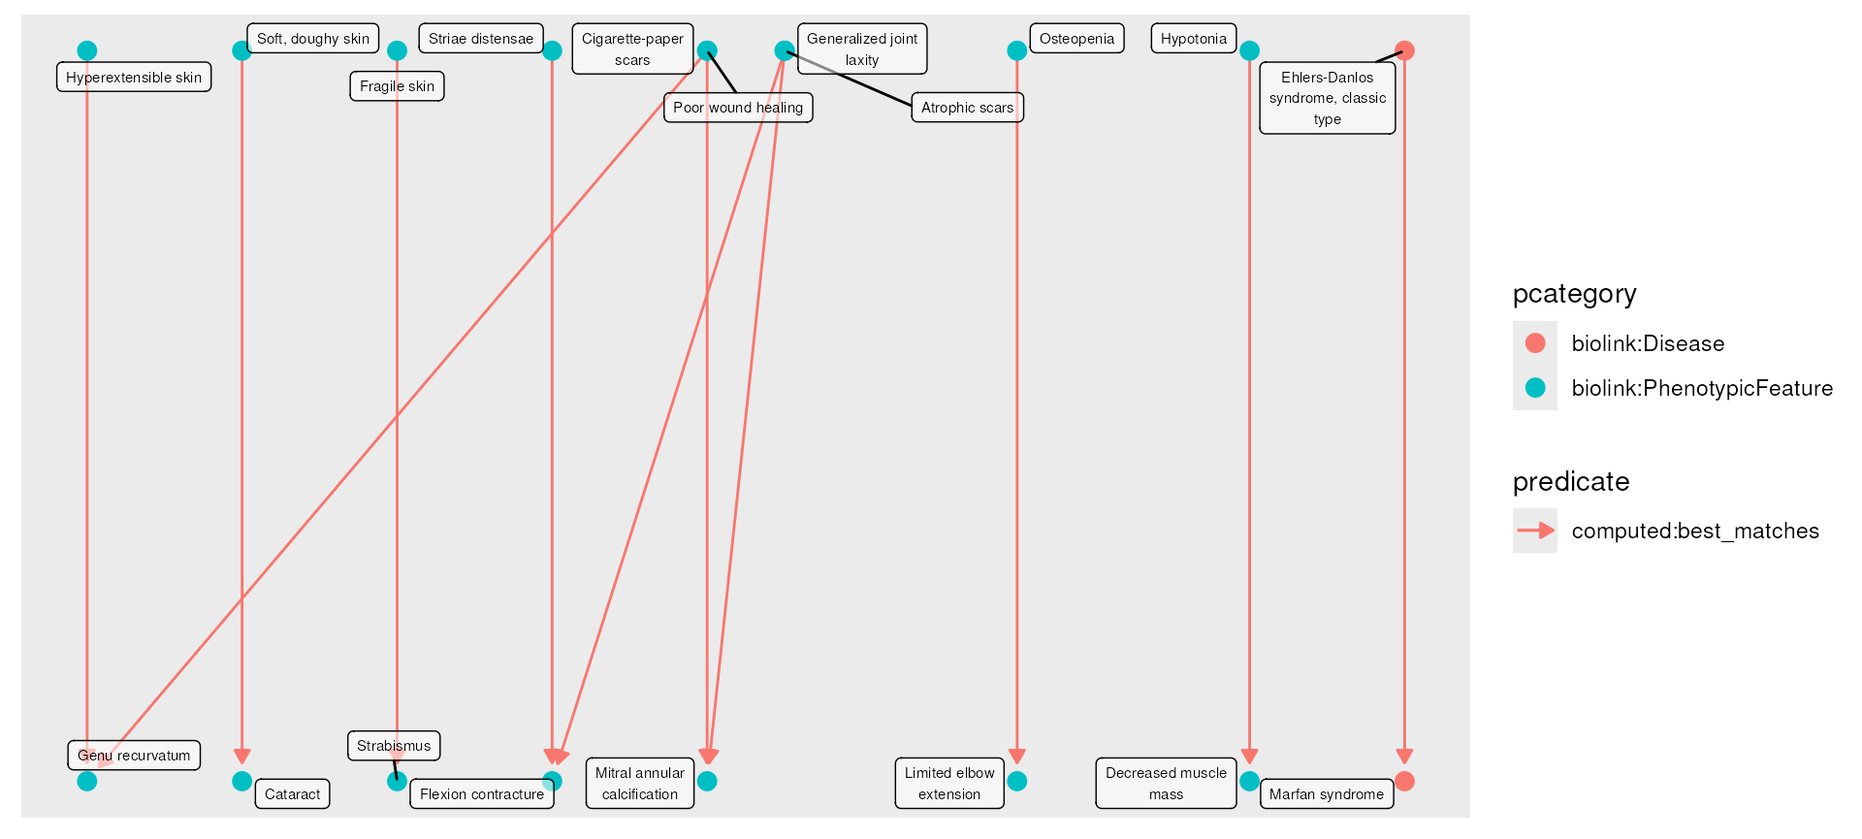
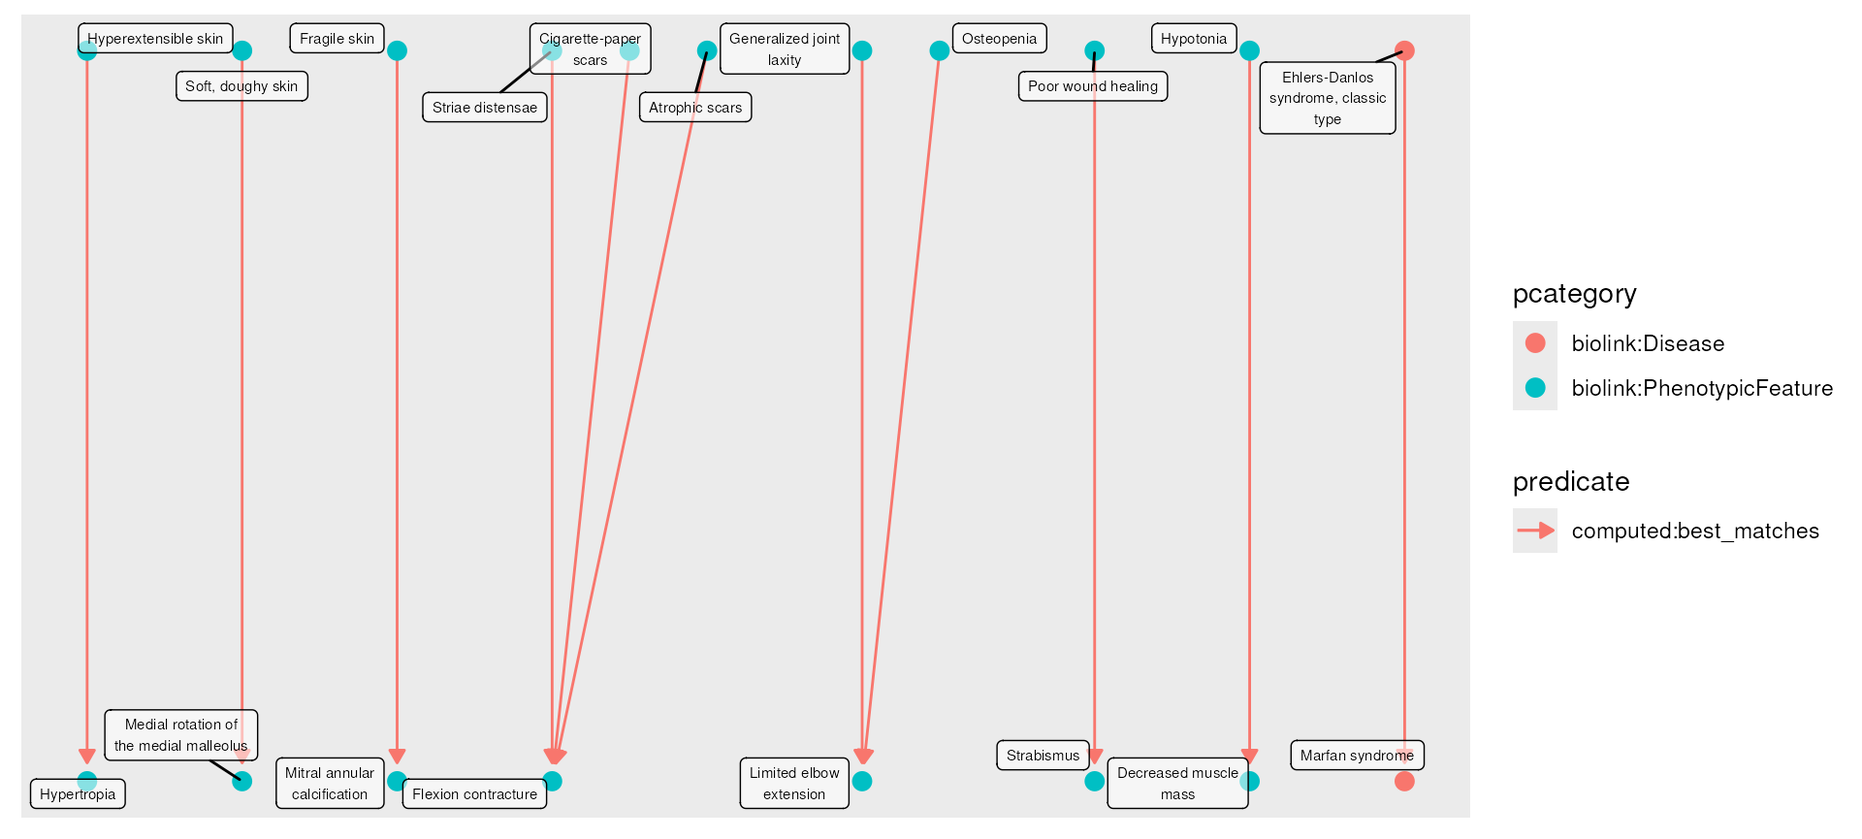
Deploying to gh-pages from @ monarch-initiative/monarchr@3656ffecc8a6514be7b05351ad8e70e9db87f349 🚀

diff --git a/reference/monarch_semsim.html b/reference/monarch_semsim.html
@@ -61,7 +61,7 @@ https://monarchinitiative.org/explore#phenotype-explorer."><!-- mathjax --><scri
   <div class="col-md-9 contents">
     <div class="page-header">
     <h1>Semantic similarity mapping between two graphs</h1>
-    <small class="dont-index">Source: <a href="https://github.com/monarch-initiative/monarchr/blob/checks_pass/R/monarch_semsim.R" class="external-link"><code>R/monarch_semsim.R</code></a></small>
+    <small class="dont-index">Source: <a href="https://github.com/monarch-initiative/monarchr/blob/main/R/monarch_semsim.R" class="external-link"><code>R/monarch_semsim.R</code></a></small>
     <div class="hidden name"><code>monarch_semsim.Rd</code></div>
     </div>
 
@@ -148,11 +148,11 @@ the best matches from the second graph to the first graph.</p>
 <span class="r-msg co"><span class="r-pr">#&gt;</span> Joining with `by = join_by(id, pcategory, name, description, synonym, category,</span>
 <span class="r-msg co"><span class="r-pr">#&gt;</span> iri, xref, namespace, provided_by)`</span>
 <span class="r-in"><span><span class="fu"><a href="https://rdrr.io/r/base/print.html" class="external-link">print</a></span><span class="op">(</span><span class="va">sim</span><span class="op">)</span></span></span>
-<span class="r-out co"><span class="r-pr">#&gt;</span> <span style="color: #949494;"># A tbl_graph: 133 nodes and 106 edges</span></span>
+<span class="r-out co"><span class="r-pr">#&gt;</span> <span style="color: #949494;"># A tbl_graph: 134 nodes and 106 edges</span></span>
 <span class="r-out co"><span class="r-pr">#&gt;</span> <span style="color: #949494;">#</span></span>
-<span class="r-out co"><span class="r-pr">#&gt;</span> <span style="color: #949494;"># A directed multigraph with 39 components</span></span>
+<span class="r-out co"><span class="r-pr">#&gt;</span> <span style="color: #949494;"># A directed multigraph with 40 components</span></span>
 <span class="r-out co"><span class="r-pr">#&gt;</span> <span style="color: #949494;">#</span></span>
-<span class="r-out co"><span class="r-pr">#&gt;</span> <span style="color: #949494;"># Node Data: 133 × 10 (active)</span></span>
+<span class="r-out co"><span class="r-pr">#&gt;</span> <span style="color: #949494;"># Node Data: 134 × 10 (active)</span></span>
 <span class="r-out co"><span class="r-pr">#&gt;</span>    id         pcategory name  description synonym category iri   xref  namespace</span>
 <span class="r-out co"><span class="r-pr">#&gt;</span>    <span style="color: #949494; font-style: italic;">&lt;chr&gt;</span>      <span style="color: #949494; font-style: italic;">&lt;chr&gt;</span>     <span style="color: #949494; font-style: italic;">&lt;chr&gt;</span> <span style="color: #949494; font-style: italic;">&lt;chr&gt;</span>       <span style="color: #949494; font-style: italic;">&lt;named&gt;</span> <span style="color: #949494; font-style: italic;">&lt;list&gt;</span>   <span style="color: #949494; font-style: italic;">&lt;chr&gt;</span> <span style="color: #949494; font-style: italic;">&lt;nam&gt;</span> <span style="color: #949494; font-style: italic;">&lt;chr&gt;</span>    </span>
 <span class="r-out co"><span class="r-pr">#&gt;</span> <span style="color: #BCBCBC;"> 1</span> MONDO:000… biolink:… Marf… A disorder… <span style="color: #949494;">&lt;chr&gt;</span>   <span style="color: #949494;">&lt;chr&gt;</span>    http… <span style="color: #949494;">&lt;chr&gt;</span> MONDO    </span>
@@ -165,15 +165,15 @@ the best matches from the second graph to the first graph.</p>
 <span class="r-out co"><span class="r-pr">#&gt;</span> <span style="color: #BCBCBC;"> 8</span> HP:0025586 biolink:… Hype… A type of … <span style="color: #949494;">&lt;lgl&gt;</span>   <span style="color: #949494;">&lt;chr&gt;</span>    http… <span style="color: #949494;">&lt;lgl&gt;</span> HP       </span>
 <span class="r-out co"><span class="r-pr">#&gt;</span> <span style="color: #BCBCBC;"> 9</span> HP:0000518 biolink:… Cata… A cataract… <span style="color: #949494;">&lt;chr&gt;</span>   <span style="color: #949494;">&lt;chr&gt;</span>    http… <span style="color: #949494;">&lt;chr&gt;</span> HP       </span>
 <span class="r-out co"><span class="r-pr">#&gt;</span> <span style="color: #BCBCBC;">10</span> HP:0008132 biolink:… Medi… <span style="color: #BB0000;">NA</span>          <span style="color: #949494;">&lt;lgl&gt;</span>   <span style="color: #949494;">&lt;chr&gt;</span>    http… <span style="color: #949494;">&lt;chr&gt;</span> HP       </span>
-<span class="r-out co"><span class="r-pr">#&gt;</span> <span style="color: #949494;"># ℹ 123 more rows</span></span>
+<span class="r-out co"><span class="r-pr">#&gt;</span> <span style="color: #949494;"># ℹ 124 more rows</span></span>
 <span class="r-out co"><span class="r-pr">#&gt;</span> <span style="color: #949494;"># ℹ 1 more variable: provided_by &lt;named list&gt;</span></span>
 <span class="r-out co"><span class="r-pr">#&gt;</span> <span style="color: #949494;">#</span></span>
 <span class="r-out co"><span class="r-pr">#&gt;</span> <span style="color: #949494;"># Edge Data: 106 × 8</span></span>
 <span class="r-out co"><span class="r-pr">#&gt;</span>    from    to subject    predicate             object   metric score ancestor_id</span>
 <span class="r-out co"><span class="r-pr">#&gt;</span>   <span style="color: #949494; font-style: italic;">&lt;int&gt;</span> <span style="color: #949494; font-style: italic;">&lt;int&gt;</span> <span style="color: #949494; font-style: italic;">&lt;chr&gt;</span>      <span style="color: #949494; font-style: italic;">&lt;chr&gt;</span>                 <span style="color: #949494; font-style: italic;">&lt;chr&gt;</span>    <span style="color: #949494; font-style: italic;">&lt;chr&gt;</span>  <span style="color: #949494; font-style: italic;">&lt;dbl&gt;</span> <span style="color: #949494; font-style: italic;">&lt;chr&gt;</span>      </span>
-<span class="r-out co"><span class="r-pr">#&gt;</span> <span style="color: #BCBCBC;">1</span>   106    46 HP:0000006 computed:best_matches HP:0001… ances…  4.10 HP:0000001 </span>
+<span class="r-out co"><span class="r-pr">#&gt;</span> <span style="color: #BCBCBC;">1</span>   106   113 HP:0000006 computed:best_matches HP:0000… ances…  4.10 HP:0000001 </span>
 <span class="r-out co"><span class="r-pr">#&gt;</span> <span style="color: #BCBCBC;">2</span>    83    83 HP:0000023 computed:best_matches HP:0000… ances… 18.2  HP:0000023 </span>
-<span class="r-out co"><span class="r-pr">#&gt;</span> <span style="color: #BCBCBC;">3</span>    23   113 HP:0000098 computed:best_matches HP:0000… ances…  5.96 UPHENO:006…</span>
+<span class="r-out co"><span class="r-pr">#&gt;</span> <span style="color: #BCBCBC;">3</span>    23   114 HP:0000098 computed:best_matches HP:0000… ances…  5.96 UPHENO:006…</span>
 <span class="r-out co"><span class="r-pr">#&gt;</span> <span style="color: #949494;"># ℹ 103 more rows</span></span>
 <span class="r-in"><span></span></span>
 <span class="r-in"><span><span class="co"># also inclue the unmatched targets</span></span></span>
@@ -204,7 +204,7 @@ the best matches from the second graph to the first graph.</p>
 <span class="r-out co"><span class="r-pr">#&gt;</span> <span style="color: #949494;"># Edge Data: 106 × 8</span></span>
 <span class="r-out co"><span class="r-pr">#&gt;</span>    from    to subject    predicate             object   metric score ancestor_id</span>
 <span class="r-out co"><span class="r-pr">#&gt;</span>   <span style="color: #949494; font-style: italic;">&lt;int&gt;</span> <span style="color: #949494; font-style: italic;">&lt;int&gt;</span> <span style="color: #949494; font-style: italic;">&lt;chr&gt;</span>      <span style="color: #949494; font-style: italic;">&lt;chr&gt;</span>                 <span style="color: #949494; font-style: italic;">&lt;chr&gt;</span>    <span style="color: #949494; font-style: italic;">&lt;chr&gt;</span>  <span style="color: #949494; font-style: italic;">&lt;dbl&gt;</span> <span style="color: #949494; font-style: italic;">&lt;chr&gt;</span>      </span>
-<span class="r-out co"><span class="r-pr">#&gt;</span> <span style="color: #BCBCBC;">1</span>   106   123 HP:0000006 computed:best_matches HP:0000… ances…  4.10 HP:0000001 </span>
+<span class="r-out co"><span class="r-pr">#&gt;</span> <span style="color: #BCBCBC;">1</span>   106   144 HP:0000006 computed:best_matches HP:0003… ances…  4.10 HP:0000001 </span>
 <span class="r-out co"><span class="r-pr">#&gt;</span> <span style="color: #BCBCBC;">2</span>    83    83 HP:0000023 computed:best_matches HP:0000… ances… 18.2  HP:0000023 </span>
 <span class="r-out co"><span class="r-pr">#&gt;</span> <span style="color: #BCBCBC;">3</span>    23   125 HP:0000098 computed:best_matches HP:0000… ances…  5.96 UPHENO:006…</span>
 <span class="r-out co"><span class="r-pr">#&gt;</span> <span style="color: #949494;"># ℹ 103 more rows</span></span>
@@ -237,7 +237,7 @@ the best matches from the second graph to the first graph.</p>
 <span class="r-out co"><span class="r-pr">#&gt;</span> <span style="color: #949494;"># Edge Data: 173 × 8</span></span>
 <span class="r-out co"><span class="r-pr">#&gt;</span>    from    to subject    predicate             object   metric score ancestor_id</span>
 <span class="r-out co"><span class="r-pr">#&gt;</span>   <span style="color: #949494; font-style: italic;">&lt;int&gt;</span> <span style="color: #949494; font-style: italic;">&lt;int&gt;</span> <span style="color: #949494; font-style: italic;">&lt;chr&gt;</span>      <span style="color: #949494; font-style: italic;">&lt;chr&gt;</span>                 <span style="color: #949494; font-style: italic;">&lt;chr&gt;</span>    <span style="color: #949494; font-style: italic;">&lt;chr&gt;</span>  <span style="color: #949494; font-style: italic;">&lt;dbl&gt;</span> <span style="color: #949494; font-style: italic;">&lt;chr&gt;</span>      </span>
-<span class="r-out co"><span class="r-pr">#&gt;</span> <span style="color: #BCBCBC;">1</span>   106   141 HP:0000006 computed:best_matches HP:0002… ances…  4.10 HP:0000001 </span>
+<span class="r-out co"><span class="r-pr">#&gt;</span> <span style="color: #BCBCBC;">1</span>   106   145 HP:0000006 computed:best_matches HP:0003… ances…  4.10 HP:0000001 </span>
 <span class="r-out co"><span class="r-pr">#&gt;</span> <span style="color: #BCBCBC;">2</span>    83    83 HP:0000023 computed:best_matches HP:0000… ances… 18.2  HP:0000023 </span>
 <span class="r-out co"><span class="r-pr">#&gt;</span> <span style="color: #BCBCBC;">3</span>    23   125 HP:0000098 computed:best_matches HP:0000… ances…  5.96 UPHENO:006…</span>
 <span class="r-out co"><span class="r-pr">#&gt;</span> <span style="color: #949494;"># ℹ 170 more rows</span></span>

diff --git a/articles/monarchr.html b/articles/monarchr.html
@@ -93,7 +93,7 @@ O’Neil</h4>
 <i>Aug-16-2024</i>
 </h4>
       
-      <small class="dont-index">Source: <a href="https://github.com/monarch-initiative/monarchr/blob/checks_pass/vignettes/monarchr.Rmd" class="external-link"><code>vignettes/monarchr.Rmd</code></a></small>
+      <small class="dont-index">Source: <a href="https://github.com/monarch-initiative/monarchr/blob/main/vignettes/monarchr.Rmd" class="external-link"><code>vignettes/monarchr.Rmd</code></a></small>
       <div class="hidden name"><code>monarchr.Rmd</code></div>
 
     </div>
@@ -6481,21 +6481,20 @@ c(“biolink:BiologicalEntity”, “biolink:DiseaseOrPhenotypicFeature”,
 </tr>
 <tr>
 <td style="text-align:left;">
-“HP:0000518”
+“HP:0025586”
 </td>
 <td style="text-align:left;">
 “biolink:PhenotypicFeature”
 </td>
 <td style="text-align:left;">
-“Cataract”
+“Hypertropia”
 </td>
 <td style="text-align:left;min-width: 300px; ">
-“A cataract is an opacity or clouding that develops in the crystalline
-lens of the eye or in its capsule.”
+“A type of strabismus characterized by permanent upward deviation of the
+visual axis of one eye.”
 </td>
 <td style="text-align:left;min-width: 300px; ">
-c(“Cataracts”, “Clouding of the lens of the eye”, “Cloudy lens”, “Lens
-opacities”, “Lens opacity”)
+NA
 </td>
 <td style="text-align:left;">
 c(“biolink:BiologicalEntity”, “biolink:DiseaseOrPhenotypicFeature”,
@@ -6503,12 +6502,10 @@ c(“biolink:BiologicalEntity”, “biolink:DiseaseOrPhenotypicFeature”,
 “biolink:ThingWithTaxon”)
 </td>
 <td style="text-align:left;">
-“<a href="http://purl.obolibrary.org/obo/HP_0000518" class="external-link uri">http://purl.obolibrary.org/obo/HP_0000518</a>”
+“<a href="http://purl.obolibrary.org/obo/HP_0025586" class="external-link uri">http://purl.obolibrary.org/obo/HP_0025586</a>”
 </td>
 <td style="text-align:left;">
-c(“Fyler:4865”, “MSH:D002386”, “SNOMEDCT_US:128306009”,
-“SNOMEDCT_US:193570009”, “SNOMEDCT_US:247053007”, “UMLS:C0086543”,
-“UMLS:C1510497”)
+NA
 </td>
 <td style="text-align:left;">
 “HP”
@@ -6519,20 +6516,19 @@ c(“Fyler:4865”, “MSH:D002386”, “SNOMEDCT_US:128306009”,
 </tr>
 <tr>
 <td style="text-align:left;">
-“HP:0002816”
+“HP:0008132”
 </td>
 <td style="text-align:left;">
 “biolink:PhenotypicFeature”
 </td>
 <td style="text-align:left;">
-“Genu recurvatum”
+“Medial rotation of the medial malleolus”
 </td>
 <td style="text-align:left;min-width: 300px; ">
-“An abnormally increased extension of the knee joint, so that the knee
-can bend backwards.”
+NA
 </td>
 <td style="text-align:left;min-width: 300px; ">
-c(“Back knee”, “Genu recurvata”, “Knee hyperextension”)
+NA
 </td>
 <td style="text-align:left;">
 c(“biolink:BiologicalEntity”, “biolink:DiseaseOrPhenotypicFeature”,
@@ -6540,10 +6536,10 @@ c(“biolink:BiologicalEntity”, “biolink:DiseaseOrPhenotypicFeature”,
 “biolink:ThingWithTaxon”)
 </td>
 <td style="text-align:left;">
-“<a href="http://purl.obolibrary.org/obo/HP_0002816" class="external-link uri">http://purl.obolibrary.org/obo/HP_0002816</a>”
+“<a href="http://purl.obolibrary.org/obo/HP_0008132" class="external-link uri">http://purl.obolibrary.org/obo/HP_0008132</a>”
 </td>
 <td style="text-align:left;">
-c(“MEDDRA:10018194”, “UMLS:C0546964”)
+“UMLS:C3805726”
 </td>
 <td style="text-align:left;">
 “HP”
@@ -6619,7 +6615,7 @@ ancestor_id
 2
 </td>
 <td style="text-align:left;">
-19
+18
 </td>
 <td style="text-align:left;">
 “HP:0000974”
@@ -6628,7 +6624,7 @@ ancestor_id
 “computed:best_matches”
 </td>
 <td style="text-align:left;">
-“HP:0002816”
+“HP:0025586”
 </td>
 <td style="text-align:left;">
 “ancestor_information_content”
@@ -6645,7 +6641,7 @@ ancestor_id
 3
 </td>
 <td style="text-align:left;">
-18
+19
 </td>
 <td style="text-align:left;">
 “HP:0001027”
@@ -6654,7 +6650,7 @@ ancestor_id
 “computed:best_matches”
 </td>
 <td style="text-align:left;">
-“HP:0000518”
+“HP:0008132”
 </td>
 <td style="text-align:left;">
 “ancestor_information_content”
@@ -6671,7 +6667,7 @@ ancestor_id
 4
 </td>
 <td style="text-align:left;">
-14
+15
 </td>
 <td style="text-align:left;">
 “HP:0001030”
@@ -6680,7 +6676,7 @@ ancestor_id
 “computed:best_matches”
 </td>
 <td style="text-align:left;">
-“HP:0000486”
+“HP:0005136”
 </td>
 <td style="text-align:left;">
 “ancestor_information_content”
@@ -6697,7 +6693,7 @@ ancestor_id
 10
 </td>
 <td style="text-align:left;">
-19
+14
 </td>
 <td style="text-align:left;">
 “HP:0001058”
@@ -6706,7 +6702,7 @@ ancestor_id
 “computed:best_matches”
 </td>
 <td style="text-align:left;">
-“HP:0002816”
+“HP:0000486”
 </td>
 <td style="text-align:left;">
 “ancestor_information_content”
@@ -6749,7 +6745,7 @@ ancestor_id
 6
 </td>
 <td style="text-align:left;">
-15
+16
 </td>
 <td style="text-align:left;">
 “HP:0001073”
@@ -6758,7 +6754,7 @@ ancestor_id
 “computed:best_matches”
 </td>
 <td style="text-align:left;">
-“HP:0005136”
+“HP:0001371”
 </td>
 <td style="text-align:left;">
 “ancestor_information_content”
@@ -6775,7 +6771,7 @@ ancestor_id
 7
 </td>
 <td style="text-align:left;">
-15
+16
 </td>
 <td style="text-align:left;">
 “HP:0001075”
@@ -6784,7 +6780,7 @@ ancestor_id
 “computed:best_matches”
 </td>
 <td style="text-align:left;">
-“HP:0005136”
+“HP:0001371”
 </td>
 <td style="text-align:left;">
 “ancestor_information_content”
@@ -6827,7 +6823,7 @@ ancestor_id
 8
 </td>
 <td style="text-align:left;">
-16
+13
 </td>
 <td style="text-align:left;">
 “HP:0002761”
@@ -6836,7 +6832,7 @@ ancestor_id
 “computed:best_matches”
 </td>
 <td style="text-align:left;">
-“HP:0001371”
+“HP:0001377”
 </td>
 <td style="text-align:left;">
 “ancestor_information_content”

diff --git a/reference/monarch_engine.html b/reference/monarch_engine.html
@@ -60,7 +60,7 @@ graph objects."><!-- mathjax --><script src="https://cdnjs.cloudflare.com/ajax/l
   <div class="col-md-9 contents">
     <div class="page-header">
     <h1>Create a knowledge graph engine object backed by the public Monarch Neo4j instance</h1>
-    <small class="dont-index">Source: <a href="https://github.com/monarch-initiative/monarchr/blob/checks_pass/R/monarch_engine.R" class="external-link"><code>R/monarch_engine.R</code></a></small>
+    <small class="dont-index">Source: <a href="https://github.com/monarch-initiative/monarchr/blob/main/R/monarch_engine.R" class="external-link"><code>R/monarch_engine.R</code></a></small>
     <div class="hidden name"><code>monarch_engine.Rd</code></div>
     </div>
 

diff --git a/reference/summarize_neighborhood.html b/reference/summarize_neighborhood.html
@@ -63,7 +63,7 @@ graph's collective neighborhood in the larger KG."><!-- mathjax --><script src="
   <div class="col-md-9 contents">
     <div class="page-header">
     <h1>Summarize neighborhood</h1>
-    <small class="dont-index">Source: <a href="https://github.com/monarch-initiative/monarchr/blob/checks_pass/R/summarize_neighborhood.R" class="external-link"><code>R/summarize_neighborhood.R</code></a></small>
+    <small class="dont-index">Source: <a href="https://github.com/monarch-initiative/monarchr/blob/main/R/summarize_neighborhood.R" class="external-link"><code>R/summarize_neighborhood.R</code></a></small>
     <div class="hidden name"><code>summarize_neighborhood.Rd</code></div>
     </div>
 

diff --git a/reference/monarch_search.html b/reference/monarch_search.html
@@ -61,7 +61,7 @@ It returns nodes (no edges) from the Monarch KG, fetched via an instance of mona
   <div class="col-md-9 contents">
     <div class="page-header">
     <h1>Search for KG nodes using the Monarch Initiative search API</h1>
-    <small class="dont-index">Source: <a href="https://github.com/monarch-initiative/monarchr/blob/checks_pass/R/monarch_search.R" class="external-link"><code>R/monarch_search.R</code></a></small>
+    <small class="dont-index">Source: <a href="https://github.com/monarch-initiative/monarchr/blob/main/R/monarch_search.R" class="external-link"><code>R/monarch_search.R</code></a></small>
     <div class="hidden name"><code>monarch_search.Rd</code></div>
     </div>
 

diff --git a/reference/stitch_vectors.html b/reference/stitch_vectors.html
@@ -62,7 +62,7 @@ scalar strings"><!-- mathjax --><script src="https://cdnjs.cloudflare.com/ajax/l
   <div class="col-md-9 contents">
     <div class="page-header">
     <h1>Stitch Vectors</h1>
-    <small class="dont-index">Source: <a href="https://github.com/monarch-initiative/monarchr/blob/checks_pass/R/cypher_query.neo4j_engine.R" class="external-link"><code>R/cypher_query.neo4j_engine.R</code></a></small>
+    <small class="dont-index">Source: <a href="https://github.com/monarch-initiative/monarchr/blob/main/R/cypher_query.neo4j_engine.R" class="external-link"><code>R/cypher_query.neo4j_engine.R</code></a></small>
     <div class="hidden name"><code>stitch_vectors.Rd</code></div>
     </div>
 

diff --git a/reference/normalize_categories.html b/reference/normalize_categories.html
@@ -60,7 +60,7 @@ It selects the most preferred category from each vector, or the first category i
   <div class="col-md-9 contents">
     <div class="page-header">
     <h1>Normalize Categories</h1>
-    <small class="dont-index">Source: <a href="https://github.com/monarch-initiative/monarchr/blob/checks_pass/R/normalize_categories.R" class="external-link"><code>R/normalize_categories.R</code></a></small>
+    <small class="dont-index">Source: <a href="https://github.com/monarch-initiative/monarchr/blob/main/R/normalize_categories.R" class="external-link"><code>R/normalize_categories.R</code></a></small>
     <div class="hidden name"><code>normalize_categories.Rd</code></div>
     </div>
 

diff --git a/reference/neo4j_engine.html b/reference/neo4j_engine.html
@@ -61,7 +61,7 @@ graph objects.'><!-- mathjax --><script src="https://cdnjs.cloudflare.com/ajax/l
   <div class="col-md-9 contents">
     <div class="page-header">
     <h1>Create a knowledge graph engine object for a neo4j database</h1>
-    <small class="dont-index">Source: <a href="https://github.com/monarch-initiative/monarchr/blob/checks_pass/R/neo4j_engine.R" class="external-link"><code>R/neo4j_engine.R</code></a></small>
+    <small class="dont-index">Source: <a href="https://github.com/monarch-initiative/monarchr/blob/main/R/neo4j_engine.R" class="external-link"><code>R/neo4j_engine.R</code></a></small>
     <div class="hidden name"><code>neo4j_engine.Rd</code></div>
     </div>
 

diff --git a/reference/fetch_nodes.html b/reference/fetch_nodes.html
@@ -63,7 +63,7 @@ set of condition expressions are supported, see details."><!-- mathjax --><scrip
   <div class="col-md-9 contents">
     <div class="page-header">
     <h1>Fetch nodes from a graph using a set of IDs or conditions</h1>
-    <small class="dont-index">Source: <a href="https://github.com/monarch-initiative/monarchr/blob/checks_pass/R/fetch_nodes.R" class="external-link"><code>R/fetch_nodes.R</code></a></small>
+    <small class="dont-index">Source: <a href="https://github.com/monarch-initiative/monarchr/blob/main/R/fetch_nodes.R" class="external-link"><code>R/fetch_nodes.R</code></a></small>
     <div class="hidden name"><code>fetch_nodes.Rd</code></div>
     </div>
 

diff --git a/reference/grapes-in_list-grapes.html b/reference/grapes-in_list-grapes.html
@@ -60,7 +60,7 @@ that this is different than %in% which does not work with list columns in a natu
   <div class="col-md-9 contents">
     <div class="page-header">
     <h1>Check if an element is contained in list sub-elements</h1>
-    <small class="dont-index">Source: <a href="https://github.com/monarch-initiative/monarchr/blob/checks_pass/R/in_list.R" class="external-link"><code>R/in_list.R</code></a></small>
+    <small class="dont-index">Source: <a href="https://github.com/monarch-initiative/monarchr/blob/main/R/in_list.R" class="external-link"><code>R/in_list.R</code></a></small>
     <div class="hidden name"><code>grapes-in_list-grapes.Rd</code></div>
     </div>
 

diff --git a/reference/expand.html b/reference/expand.html
@@ -62,7 +62,7 @@ engine is used; if the first parameter is a query graph, the most recent engine 
   <div class="col-md-9 contents">
     <div class="page-header">
     <h1>Fetch additional knowledge graph edges connected to a query graph</h1>
-    <small class="dont-index">Source: <a href="https://github.com/monarch-initiative/monarchr/blob/checks_pass/R/expand.R" class="external-link"><code>R/expand.R</code></a></small>
+    <small class="dont-index">Source: <a href="https://github.com/monarch-initiative/monarchr/blob/main/R/expand.R" class="external-link"><code>R/expand.R</code></a></small>
     <div class="hidden name"><code>expand.Rd</code></div>
     </div>
 

diff --git a/reference/load_kgx.html b/reference/load_kgx.html
@@ -61,7 +61,7 @@ loads it as a graph."><!-- mathjax --><script src="https://cdnjs.cloudflare.com/
   <div class="col-md-9 contents">
     <div class="page-header">
     <h1>Load a graph from a KGX-formatted .tar.gz file.</h1>
-    <small class="dont-index">Source: <a href="https://github.com/monarch-initiative/monarchr/blob/checks_pass/R/load_kgx.R" class="external-link"><code>R/load_kgx.R</code></a></small>
+    <small class="dont-index">Source: <a href="https://github.com/monarch-initiative/monarchr/blob/main/R/load_kgx.R" class="external-link"><code>R/load_kgx.R</code></a></small>
     <div class="hidden name"><code>load_kgx.Rd</code></div>
     </div>
 
